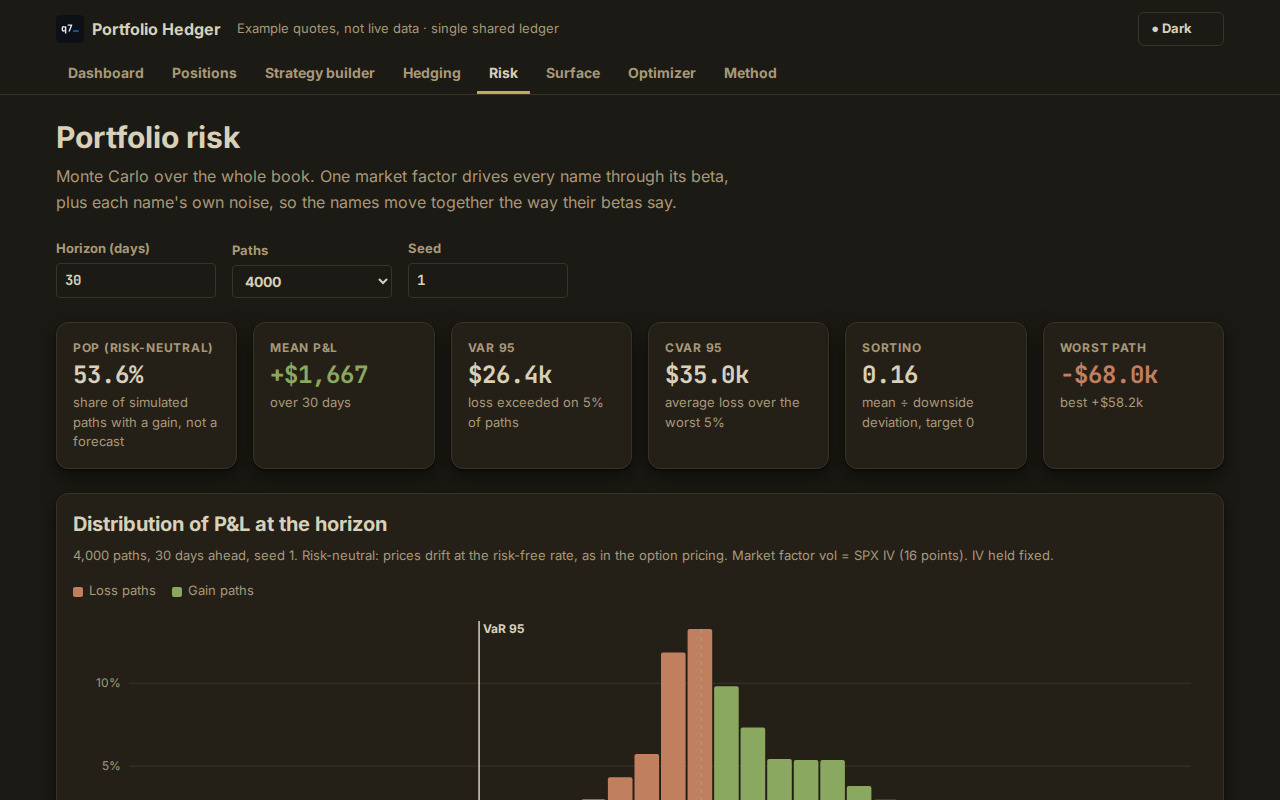
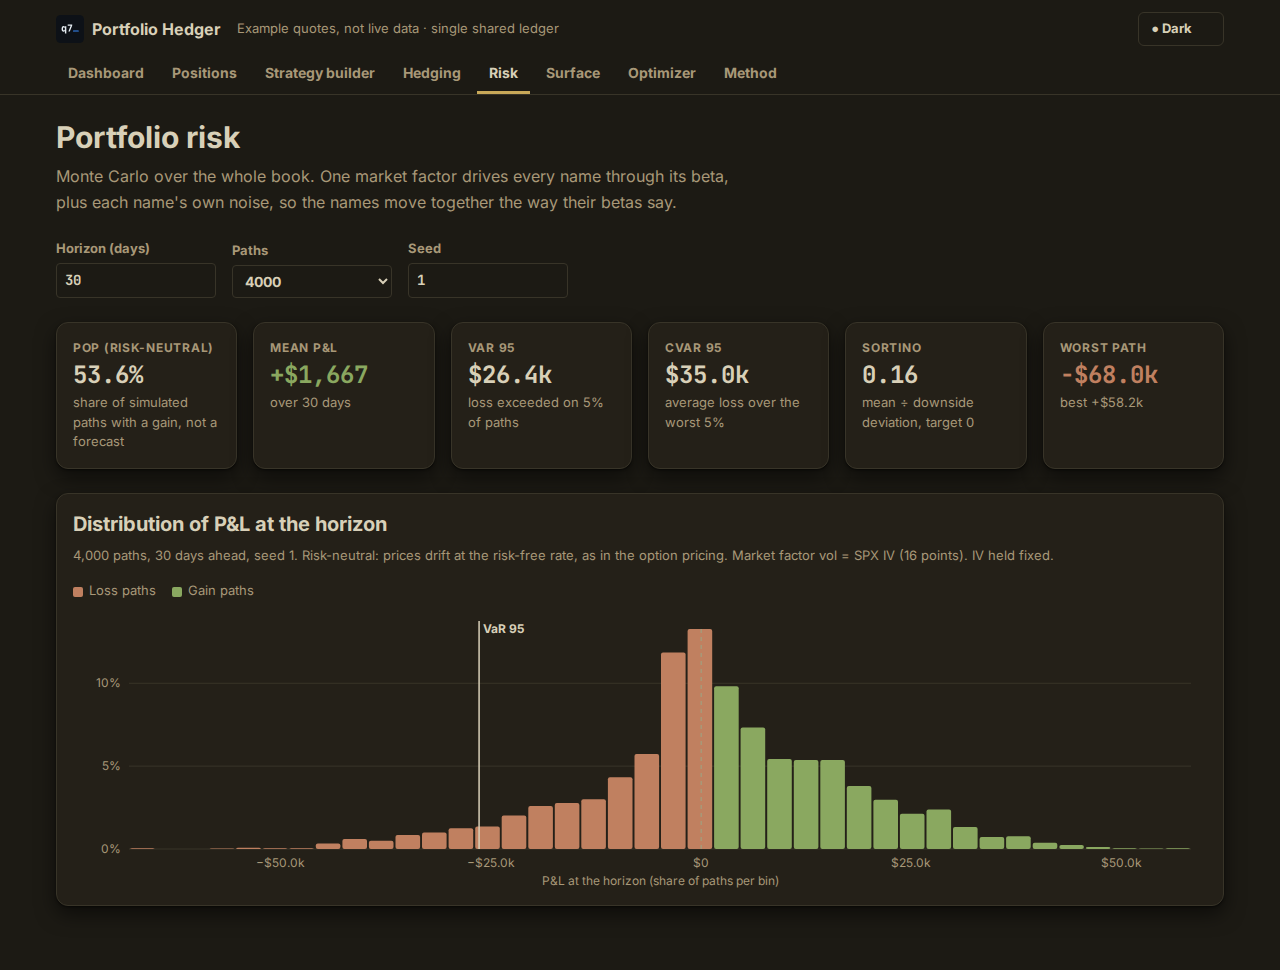
docs: full-view README screenshots and the script that takes them

diff --git a/scripts/screenshots.py b/scripts/screenshots.py
@@ -1,0 +1,45 @@
+"""Full-page README screenshots of the live site, so no view is cut off.
+
+Run: uv run --directory ../polyfetch-scrape python "$PWD/scripts/screenshots.py" "$PWD/docs/screenshots"
+"""
+import sys
+from pathlib import Path
+
+from polyfetch_scrape import render_session
+
+BASE = "https://hedger.abizz.dev/?theme=dark"
+OUT = Path(sys.argv[1])
+OUT.mkdir(parents=True, exist_ok=True)
+
+
+def shot(view, name, viewport=(1280, 800), prepare=None):
+    with render_session(f"{BASE}#{view}", viewport=viewport, color_scheme="dark", wait_until="networkidle") as s:
+        if prepare:
+            prepare(s.page)
+        # Reason: a click scrolls the page, and the sticky header then lands mid-image in a full-page shot.
+        s.page.evaluate("() => window.scrollTo(0, 0)")
+        s.page.wait_for_timeout(400)
+        s.page.screenshot(path=str(OUT / f"{name}.png"), full_page=True)
+    print(name)
+
+
+def widen_ledger(page):
+    # The ledger scrolls sideways inside the page column; let the column grow until every ledger column is visible.
+    # The page's CSP blocks injected <style>; CSSOM changes from script are allowed.
+    page.evaluate("""() => {
+        document.documentElement.style.setProperty('--maxw', '100vw');
+        document.querySelectorAll('.table-wrap').forEach((e) => { e.style.overflowX = 'visible'; });
+    }""")
+    page.wait_for_timeout(200)
+
+
+def run_optimizer(page):
+    page.locator('#opt-form button[type="submit"]').click()
+    page.wait_for_function("() => !document.querySelector('#opt-out')?.textContent.includes('press')", timeout=60000)
+
+
+for view in ("dashboard", "hedge", "risk", "surface"):
+    shot(view, view)
+shot("positions", "positions", viewport=(1600, 900), prepare=widen_ledger)
+shot("optimizer", "optimizer", prepare=run_optimizer)
+shot("dashboard", "phone-dashboard", viewport=(390, 844))

diff --git a/docs/plans/2026-11-14-0003-portfolio-hedger-v3.md b/docs/plans/2026-11-14-0003-portfolio-hedger-v3.md
@@ -9,7 +9,7 @@
   <https://hedger.abizz.dev> (Cloudflare Pages project `portfolio-hedger`; its `*.pages.dev` addresses redirect there
   with a 301). The claude.ai artifact copy is at v21.
 - **Shipped in this arc:** #1 public import, #2 plan note, #6 pages.dev redirect recorded, #7 concise README and
-  `CONTRIBUTING.md`; this plan opened in #8; #9 README screenshots and parallel-work notes; the ledger's "undefined" flag label fixed in #10.
+  `CONTRIBUTING.md`; this plan opened in #8; #9 README screenshots and parallel-work notes; the ledger's "undefined" flag label fixed in #10 (artifact v22); full-view README screenshots in #PRS.
 - **Next:** row 1 once the Cboe Margin Manual can be read (agent). Rows 2–5 are owner rows, each with a recommended
   default; row 5's default and, once validated, row 4 become agent work when the owner says go.
 - **Loop per item:** see [CONTRIBUTING.md](../../CONTRIBUTING.md#workflow). After a merge that changes `public/`:
@@ -46,7 +46,7 @@
 | Hedges, scenarios, risk | `engine.js`: `deltaHedge`, `gammaHedge`, `betaHedge`, `stressTable`, `payoffCurve`, `surfaceGrid`, `simulate`, `pnlPaths`, `riskStats`, `optimizeHedge` |
 | Engine behaviour spec | `tests/engine.test.mjs` (`node --test`); QuantLib fixture `tests/fixtures/quantlib-bs.json` |
 | UI | `public/app.js` (state in `localStorage` `portfolio-hedger:v1`; `render*` per view; routing in `VIEWS`), `public/index.html` (Method page is `#view-method`) |
-| Build, checks, CI | `scripts/build.mjs` (CSP), `scripts/e2e.py`, `scripts/reference.py`, `.github/workflows/ci.yml`; targets in [CONTRIBUTING.md](../../CONTRIBUTING.md) |
+| Build, checks, CI | `scripts/build.mjs` (CSP), `scripts/e2e.py`, `scripts/reference.py`, `scripts/screenshots.py` (README images), `.github/workflows/ci.yml`; targets in [CONTRIBUTING.md](../../CONTRIBUTING.md) |
 | Requirements and research | `docs/spec.md`; `docs/research/` (personas, persona runs, professional buyers, cash rules vs Cboe) |
 | Issues | #3 broker benchmark, #4 research gap, #5 hedge policy (advisory) |
 

diff --git a/CONTRIBUTING.md b/CONTRIBUTING.md
@@ -43,17 +43,15 @@ chromium`. Set `PLAYWRIGHT_BROWSERS_PATH` if the browsers live elsewhere.
 
 ## README screenshots
 
-`docs/screenshots/` holds the README images, taken from the live site with the polyfetch CLI. Retake them after a
-visible UI change, for example:
+`docs/screenshots/` holds the README images: every view of the live site in full, taken with
+[`scripts/screenshots.py`](scripts/screenshots.py) through polyfetch's browser. Retake them after a visible UI change:
 
 ```sh
-uv run --directory ../polyfetch-scrape polyfetch fetch "https://hedger.abizz.dev/?theme=dark#hedge" --tier patchright \
-  --viewport 1280x800 --color-scheme dark --wait-until networkidle --screenshot viewport \
-  --screenshot-out "$PWD/docs/screenshots/hedge.png"
+uv run --directory ../polyfetch-scrape python "$PWD/scripts/screenshots.py" "$PWD/docs/screenshots"
 ```
 
-The phone image uses `--device "iPhone 13"` instead of `--viewport`. Paths must be absolute: `--directory` changes
-the working directory.
+Positions is taken 1600 px wide with the page column widened, so every ledger column shows; the Optimizer shot runs
+one search first so its result is visible.
 
 ## Deploy
 
@@ -76,7 +74,7 @@ public/            the app, and the claude.ai artifact source (index.html has no
   app.js, app.css  UI: state, hash routing, SVG charts
   vendor/          qte77 brand ui-kit, fonts, logo (make vendor; not edited here)
 tests/             engine behaviour spec (node --test) and the QuantLib fixture
-scripts/           build.mjs (build + CSP), e2e.py (headless UI check), reference.py (QuantLib)
+scripts/           build.mjs (build + CSP), e2e.py (headless UI check), reference.py (QuantLib), screenshots.py (README images)
 docs/              spec.md (requirements), plans/, research/
 ```
 

diff --git a/README.md b/README.md
@@ -20,7 +20,8 @@ The quotes are editable examples, not live data. It is an educational tool, not 
 
 ### Screenshots
 
-The example book in the dark theme (desktop at 1280×800, phone as an iPhone 13).
+The example book in the dark theme, each view in full (desktop 1280 px wide; Positions at 1600 px so every ledger
+column fits; phone 390 px).
 
 <details>
 <summary>Dashboard: exposures of the whole book</summary>
@@ -30,9 +31,9 @@ The example book in the dark theme (desktop at 1280×800, phone as an iPhone 13)
 </details>
 
 <details>
-<summary>Positions: the one ledger, with combos and subtotals</summary>
+<summary>Positions: the ledger with combos and collateral, cash account, export and import, market quotes</summary>
 
-<img src="docs/screenshots/positions.png" alt="Positions: the one ledger, with combos and subtotals">
+<img src="docs/screenshots/positions.png" alt="Positions: the ledger with combos and collateral, cash account, export and import, market quotes">
 
 </details>
 
@@ -58,9 +59,9 @@ The example book in the dark theme (desktop at 1280×800, phone as an iPhone 13)
 </details>
 
 <details>
-<summary>Optimizer: weights, limits and costs for a joint futures and option hedge search</summary>
+<summary>Optimizer: a joint futures and option hedge search with its result</summary>
 
-<img src="docs/screenshots/optimizer.png" alt="Optimizer: weights, limits and costs for a joint futures and option hedge search">
+<img src="docs/screenshots/optimizer.png" alt="Optimizer: a joint futures and option hedge search with its result">
 
 </details>
 

diff --git a/CHANGELOG.md b/CHANGELOG.md
@@ -11,6 +11,7 @@ All notable changes are listed here. Format: [Keep a Changelog](https://keepacha
 
 ### Changed (open source)
 
+- README screenshots show each view in full (nothing cut off), Positions with every ledger column, and the Optimizer with a result; `scripts/screenshots.py` retakes them.
 - README order: what, how, why, further reading, licence; seven screenshots of the live site in collapsible sections (`docs/screenshots/`), with how to retake them in `CONTRIBUTING.md`.
 - README rewritten to be short: what the app does, why, how to use it, how to run it, further reading. Build, test, deploy and layout details moved to the new `CONTRIBUTING.md`.
 - The project is public at <https://github.com/qte77/portfolio-hedger>, starting from this tree as one commit.
